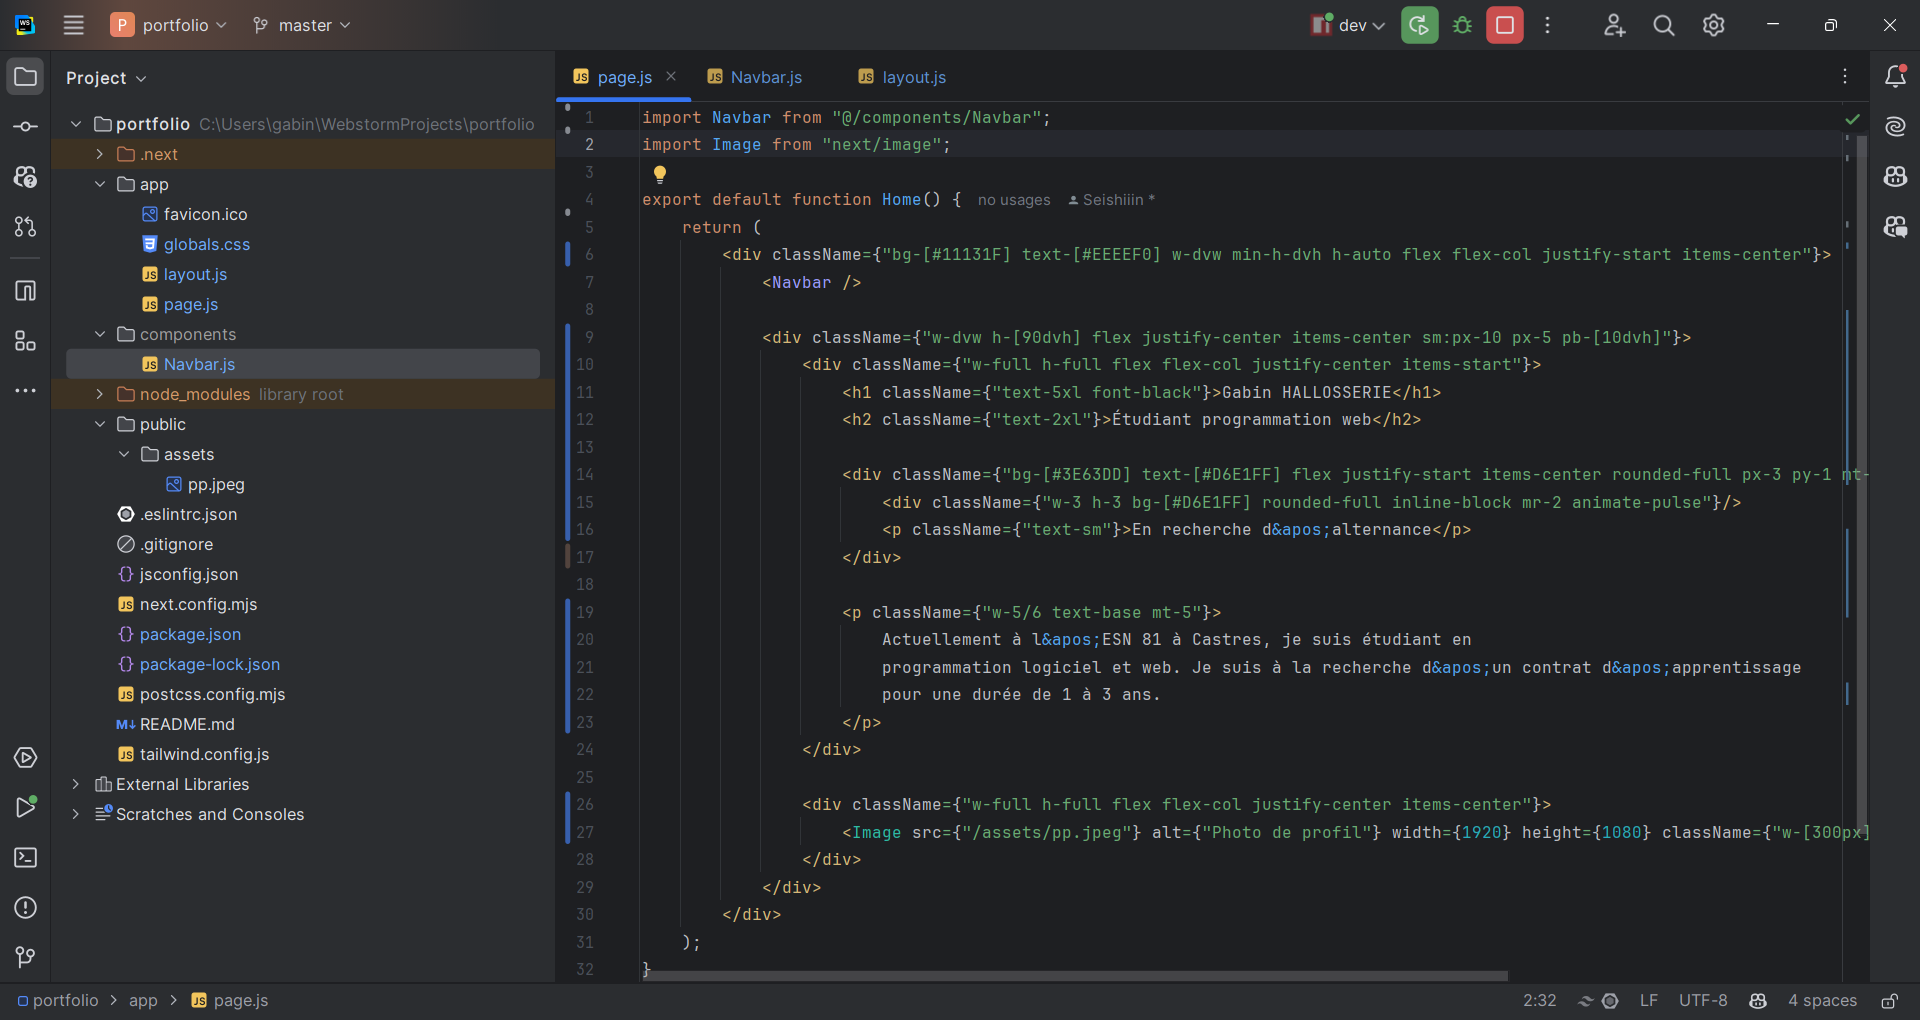
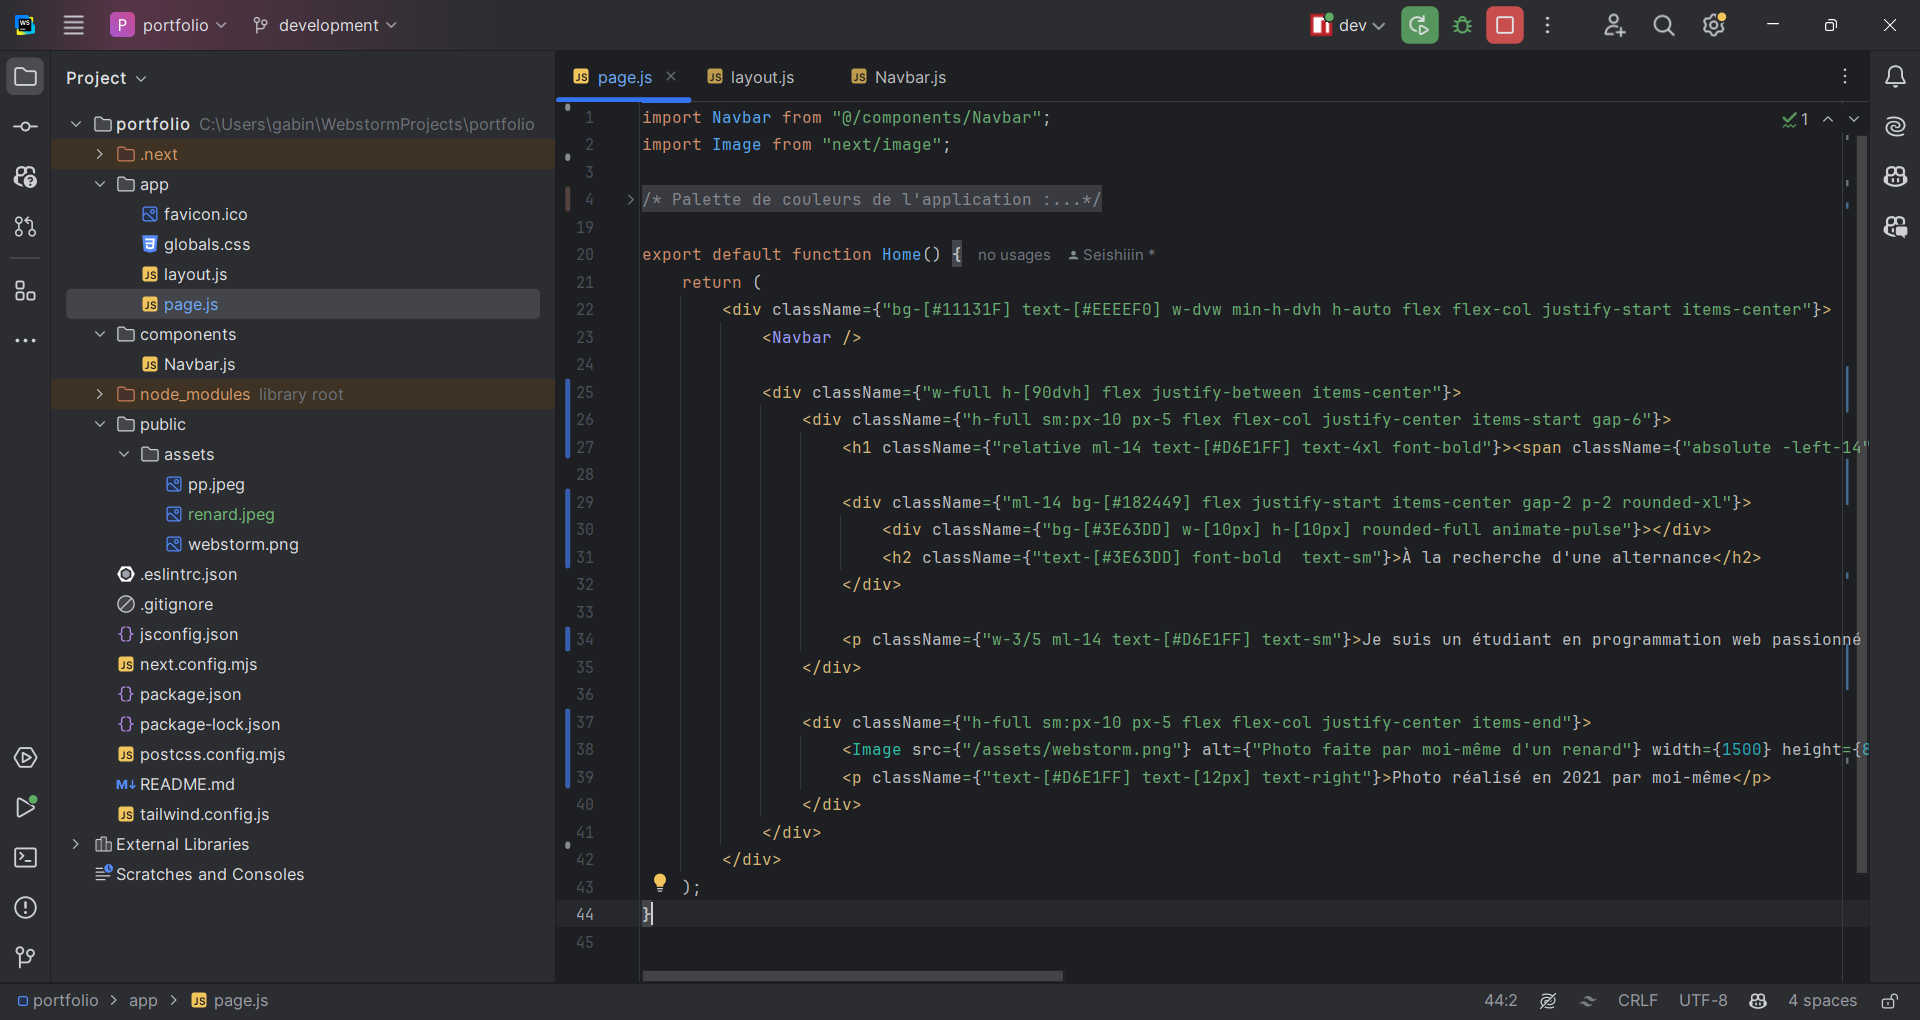
redesign

diff --git a/app/page.js b/app/page.js
@@ -1,26 +1,20 @@
-"use client";
-
 import Navbar from "@/components/Navbar";
 import Image from "next/image";
 
-import { ArrowDownIcon, RocketIcon, GlobeIcon, BackpackIcon, GearIcon, BarChartIcon } from "@radix-ui/react-icons";
-
-import SkillCard from "@/components/SkillCard";
-
 /*
 Palette de couleurs de l'application :
-1.  Arrière-plan de l'application - #11131F
-2.  Arrière-plan subtil - #141726
-3.  Arrière-plan des éléments de l'interface utilisateur - #182449
-4.  Arrière-plan des éléments de l'interface utilisateur survolés - #1D2E62
-5.  Arrière-plan des éléments de l'interface utilisateur actifs / sélectionnés - #253974
-6.  Bordures et séparateurs subtils - #304384
-7.  Bordures des éléments de l'interface utilisateur et anneaux de mise au point - #3A4F97
-8.  Bordure des éléments de l'interface utilisateur survolés - #435DB1
-9.  Arrière-plans solides - #3E63DD
-10. Arrière-plans solides survolés - #5472E4
-11. Texte à faible contraste - #9EB1FF
-12. Texte à fort contraste - #D6E1FF
+    1.  Arrière-plan de l'application - #11131F
+    2.  Arrière-plan subtil - #141726
+    3.  Arrière-plan des éléments de l'interface utilisateur - #182449
+    4.  Arrière-plan des éléments de l'interface utilisateur survolés - #1D2E62
+    5.  Arrière-plan des éléments de l'interface utilisateur actifs / sélectionnés - #253974
+    6.  Bordures et séparateurs subtils - #304384
+    7.  Bordures des éléments de l'interface utilisateur et anneaux de mise au point - #3A4F97
+    8.  Bordure des éléments de l'interface utilisateur survolés - #435DB1
+    9.  Arrière-plans solides - #3E63DD
+    10. Arrière-plans solides survolés - #5472E4
+    11. Texte à faible contraste - #9EB1FF
+    12. Texte à fort contraste - #D6E1FF
 */
 
 export default function Home() {
@@ -28,56 +22,34 @@ export default function Home() {
         <div className={"bg-[#11131F] text-[#EEEEF0] w-dvw min-h-dvh h-auto flex flex-col justify-start items-center"}>
             <Navbar />
 
-            <div className={"relative w-dvw h-[90dvh] flex justify-center items-center sm:px-10 px-5 pb-[10dvh]"}>
-                <div className={"h-full flex flex-col justify-center items-start"}>
-                    <h1 className={"text-5xl font-black"}>Gabin HALLOSSERIE</h1>
-                    <h2 className={"text-2xl"}>Étudiant programmation web</h2>
+            <div className={"relative w-full h-[90dvh] flex justify-between items-center"}>
+                <div className={"h-full sm:px-10 px-5 flex flex-col justify-center items-start gap-6"}>
+                    <h1 className={"relative ml-14 text-[#D6E1FF] text-4xl font-bold"}><span className={"absolute -left-14"}>👋</span>Hey, moi c'est <span className={"text-[#3E63DD]"}>Gabin HALLOSSERIE</span></h1>
 
-                    <div className={"flex justify-start items-center gap-5"}>
-                        <div className={"bg-[#3E63DD] hover:bg-[#5472E4] hover:cursor-alias text-[#D6E1FF] flex justify-start items-center gap-2 rounded-full px-3 py-1 my-5"}>
-                            <BackpackIcon className={"animate-pulse"} />
-                            <p className={"text-sm"}>En recherche d&apos;alternance</p>
+                    <div className={"flex sm:flex-row flex-col sm:justify-start justify-center sm:items-center items-start sm:gap-5 gap-2"}>
+                        <div className={"ml-14 bg-[#182449] flex justify-start items-center gap-2 p-2 rounded-xl"}>
+                            <div className={"bg-[#3E63DD] w-[10px] h-[10px] rounded-full animate-pulse"}></div>
+                            <h2 className={"text-[#3E63DD] font-bold  text-sm"}>À la recherche d'une alternance</h2>
                         </div>
 
-                        <div className={"bg-red-500 hover:bg-red-600 hover:cursor-alias text-[#D6E1FF] flex justify-start items-center gap-2 rounded-full px-3 py-1 my-5"}>
-                            <RocketIcon className={"animate-pulse"} />
-                            <p className={"text-sm"}>Portfolio en cours de construction</p>
+                        <div className={"ml-14 sm:ml-0 bg-orange-100 flex justify-start items-center gap-2 p-2 rounded-xl"}>
+                            <div className={"bg-orange-900 w-[10px] h-[10px] rounded-full animate-pulse"}></div>
+                            <h2 className={"text-orange-900 font-bold  text-sm"}>Portfolio en cours de création</h2>
                         </div>
                     </div>
 
-                    <p className={"w-5/6 text-base"}>Actuellement à l&apos;ESN 81 à Castres, je suis étudiant en programmation logiciel et web. Je suis à la recherche d&apos;un contrat d&apos;apprentissage pour une durée de 1 à 3 ans.</p>
-
+                    <p className={"w-3/5 ml-14 text-[#D6E1FF] text-sm"}>Je suis un étudiant en programmation web passionné par le développement d'applications web modernes et performantes. J'aime apprendre de nouvelles technologies et les appliquer dans des projets personnels. Je suis actuellement en bachelor CSI à l&apos;ESN 81 à Castres</p>
                 </div>
 
-                <div className={"w-full h-full lg:flex hidden flex-col justify-center items-end"}>
-                    <Image src={"/assets/webstorm.png"} alt={"Photo de profil"} width={3840} height={2160} className={"xl:w-[calc(1920px/3.5)] w-[calc(1920px/5)] xl:h-[calc(1080px/3.5)] h-[calc(1080px/5)] rounded-md"} />
+                <div className={"hidden xl:flex h-full sm:px-10 px-5 flex-col justify-center items-end"}>
+                    <Image src={"/assets/webstorm.png"} alt={"Photo de mon environnement de développement"} width={1500} height={844} />
                 </div>
 
-                <div className={"absolute bottom-4 w-dvw h-[5dvh] flex justify-center items-center"}>
-                    <a href={"#about"} className={"flex justify-center items-center gap-2 animate-bounce"}>
-                        <span className={"text-sm"}><ArrowDownIcon /></span>
-                        <span className={"text-sm"}>En savoir plus</span>
-                        <span className={"text-sm"}><ArrowDownIcon /></span>
-                    </a>
-                </div>
-            </div>
-
-            <div id={"about"} className={"w-dvw h-[90dvh] flex justify-between items-end py-[10dvh] sm:px-10 px-5"}>
-                <SkillCard middle={false}
-                           title={"Développement logiciel"}
-                           description={"Maîtrise de Java et Python, avec quelques notions sur Windev pour le développement d'applications."}
-                            icon={<GearIcon className={"w-12 h-12 text-[#D6E1FF]"}/>}
-                />
-                <SkillCard middle={true}
-                           title={"Développement web"}
-                           description={"Création de sites web dynamiques avec HTML, CSS, PHP et JavaScript. Expérience avec les frameworks CodeIgniter, Next.js et les ORM Prisma, Eloquent."}
-                           icon={<GlobeIcon className={"w-12 h-12 text-[#D6E1FF]"}/>}
-                />
-                <SkillCard middle={false}
-                           title={"Base de données"}
-                           description={"Gestion de bases de données avec MySQL. Conception MCD et requêtes SQL optimisées."}
-                            icon={<BarChartIcon className={"w-12 h-12 text-[#D6E1FF]"}/>}
-                />
+               {/*<a href={"#"} className={"absolute w-[300px] text-center bottom-10 left-[calc(50%-150px)] transform -translate-x-1/2 flex justify-center items-center gap-5 animate-bounce"}>
+                    <DoubleArrowDownIcon className={"w-4 h-4 text-[#3E63DD]"} />
+                    <p className={"text-[#D6E1FF] text-sm"}>En savoir plus sur moi</p>
+                    <DoubleArrowDownIcon className={"w-4 h-4 text-[#3E63DD]"} />
+                </a>*/}
             </div>
         </div>
     );
